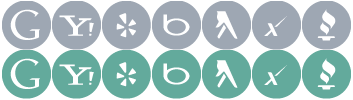
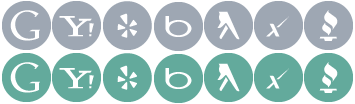
finished footer and working on power washing page

diff --git a/app/assets/stylesheets/home.css.scss b/app/assets/stylesheets/home.css.scss
@@ -369,6 +369,7 @@ div.before-after.after {
 	background-position: right center;
 }
 
+/* Home Page */
 div.before-after.first {
 	background-image: image-url("before-after-auto.png");
 }
@@ -379,6 +380,19 @@ div.before-after.second {
 
 div.before-after.third {
 	background-image: image-url("before-after-power.png");
+}
+
+/* Power Washing Page */
+div.before-after.first-power {
+	background-image: image-url("before-after-power-1.png");
+}
+
+div.before-after.second-power {
+	background-image: image-url("before-after-power.png");
+}
+
+div.before-after.third-power {
+	background-image: image-url("before-after-power-3.png");
 }
 
 div.before-after-connection {
@@ -463,15 +477,15 @@ li.social-contacts {
 
 div.social-footer {
 	width: 51px;
-	height: 51px;
+	height: 52px;
 	background-image: image-url("social.png");
 	display: inline-block;
 }
 
 div.social-footer.google {
-	background-position: -1px 1px;
+	background-position: -1px 2px;
 	&:hover {
-		background-position: -1px 51px;
+		background-position: -1px 52px;
 	}
 }
 
@@ -490,29 +504,29 @@ div.social-footer.yelp {
 }
 
 div.social-footer.bing {
-	background-position: -151px 1px;
+	background-position: -152px 1px;
 	&:hover {
-		background-position: -151px 51px;
+		background-position: -152px 51px;
 	}
 }
 
 div.social-footer.yellow {
-	background-position: -201px 1px;
+	background-position: -203px 1px;
 	&:hover {
-		background-position: -201px 51px;
+		background-position: -203px 51px;
 	}
 }
 
 div.social-footer.dex {
-	background-position: -251px 1px;
+	background-position: -253px 1px;
 	&:hover {
-		background-position: -251px 51px;
+		background-position: -253px 51px;
 	}
 }
 
 div.social-footer.bbb {
-	background-position: -301px 1px;
+	background-position: -303px 1px;
 	&:hover {
-		background-position: -301px 51px;
+		background-position: -303px 51px;
 	}
 }
